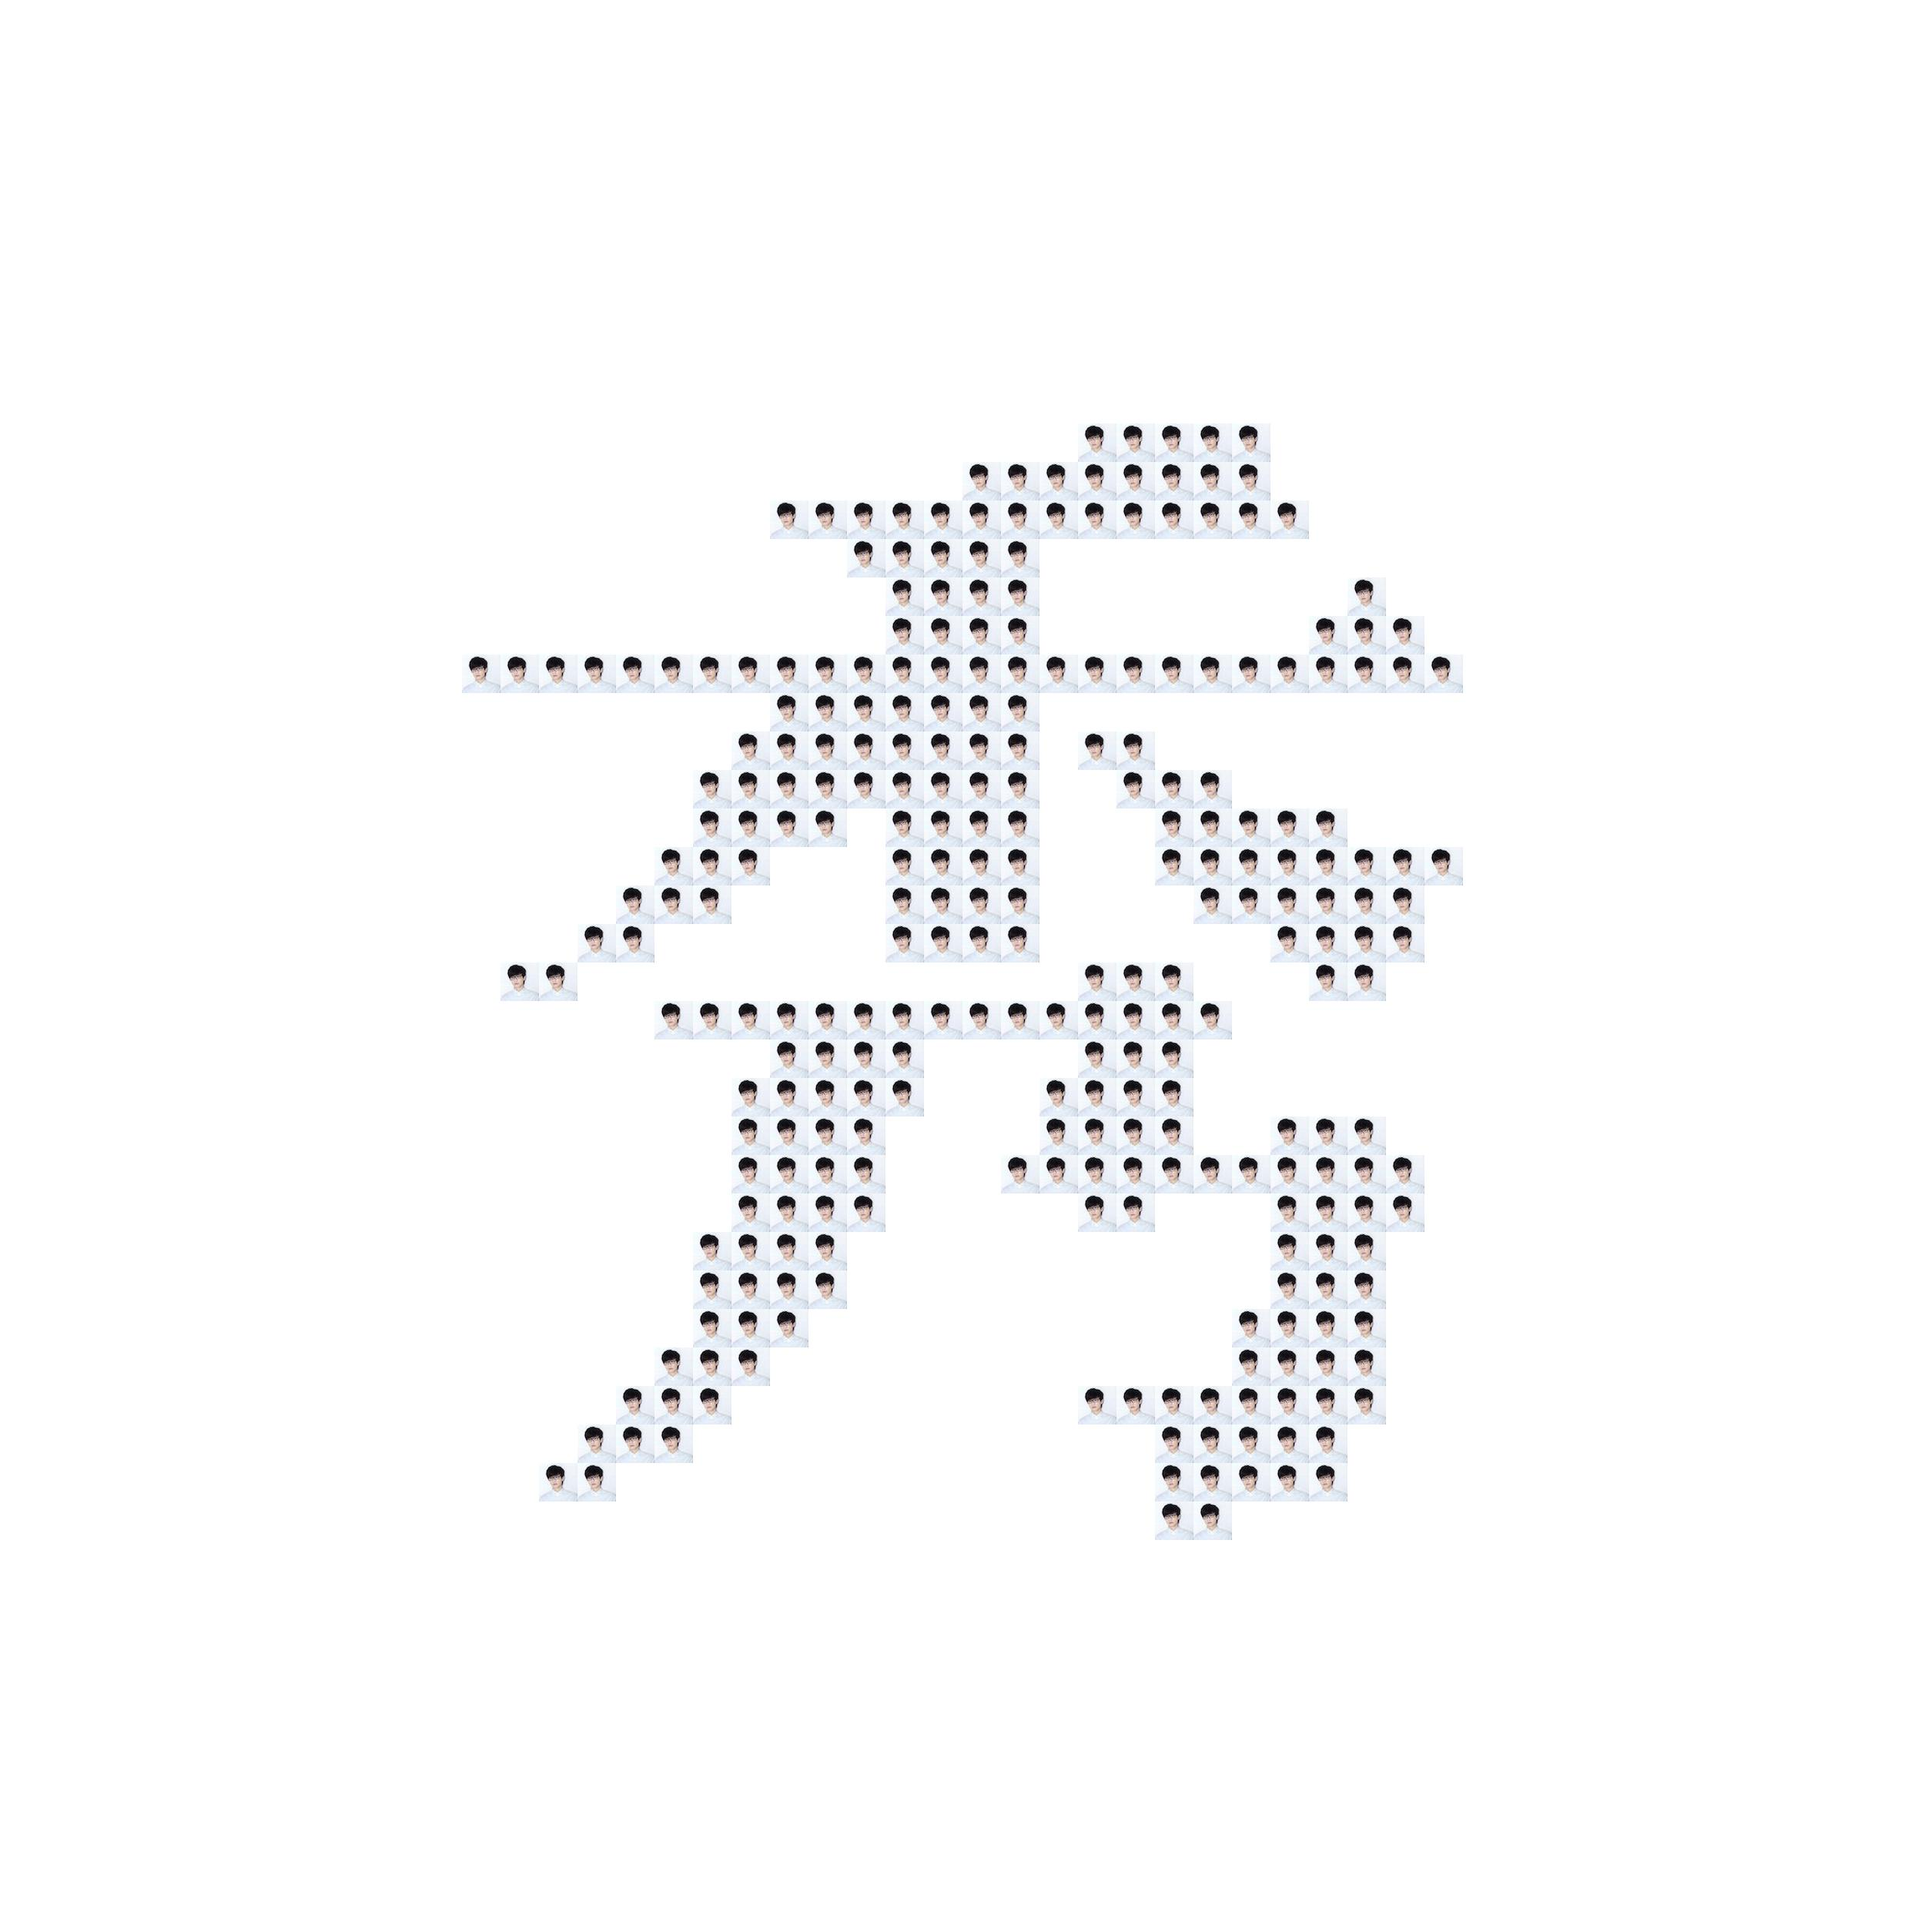
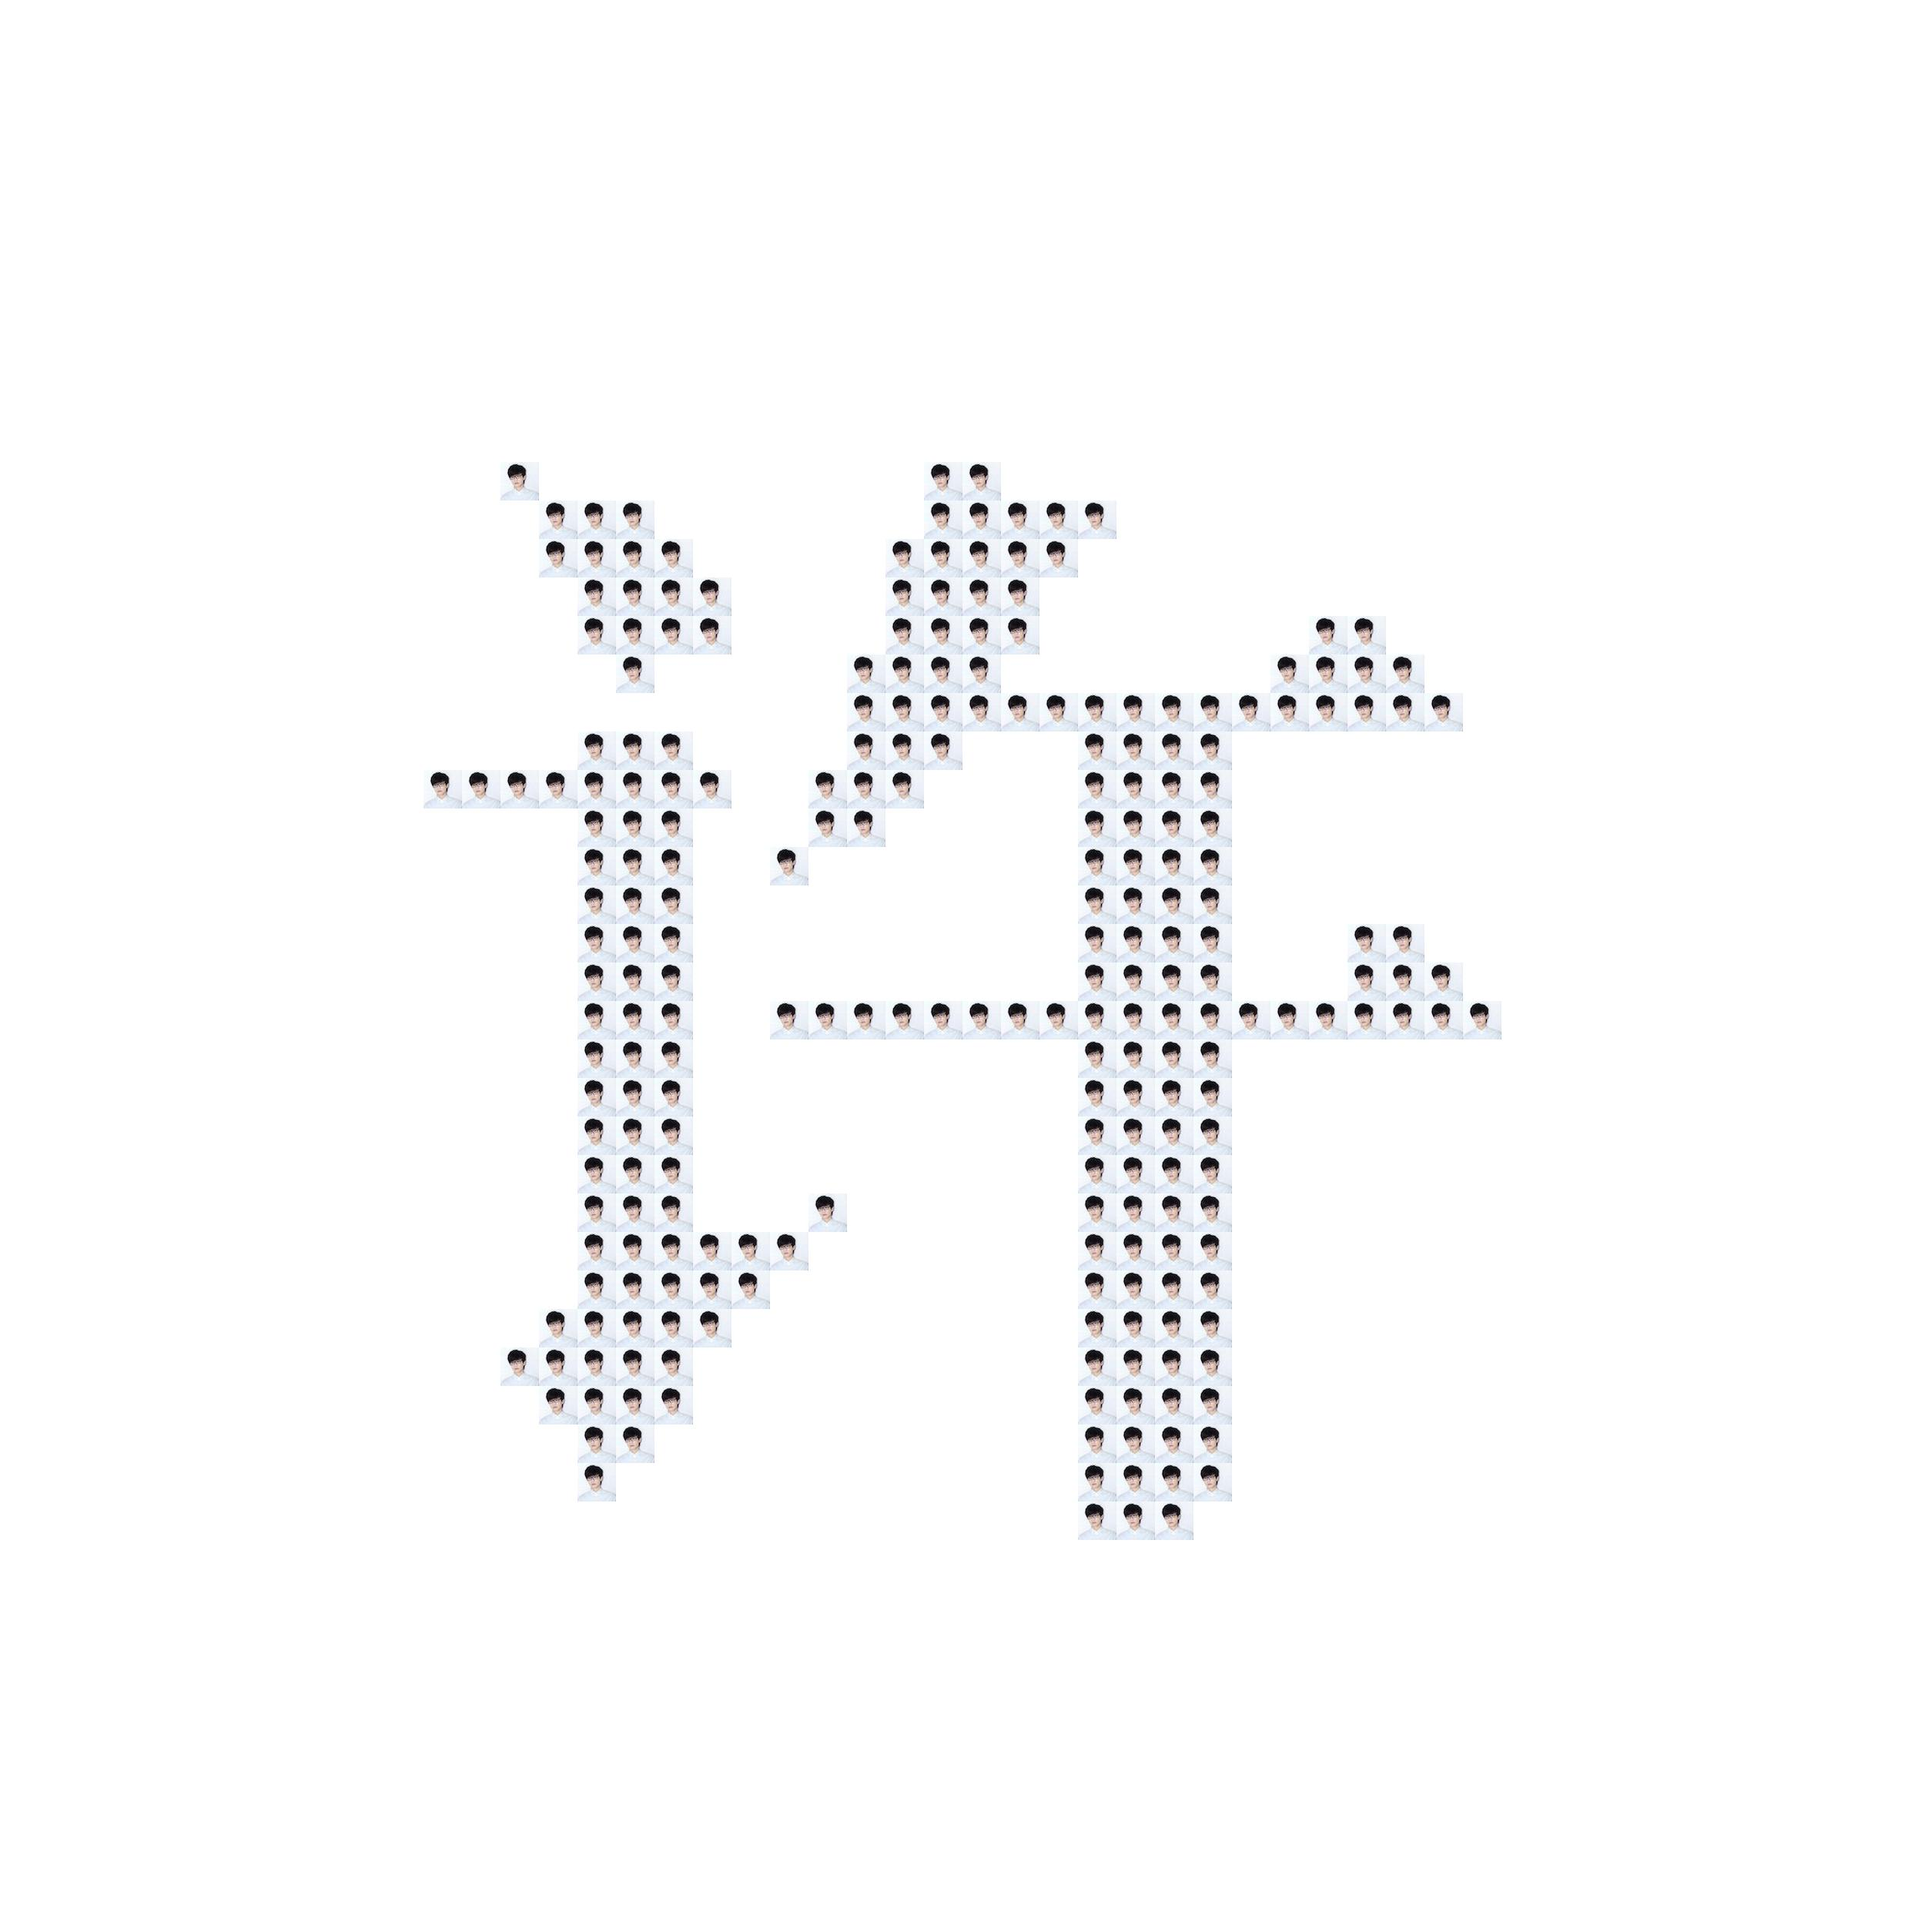
miniPic

diff --git a/start.py b/start.py
@@ -23,8 +23,9 @@ time_interval = 3
 # 图片的每个像素由原图片组成
 # isColorful:是否彩色
 # degree:彩色程度(1-5)
+# isMiniPic:是否按位置生成所有的小图
 # TODO: 可以考虑不裁切小图
-def picFather(pic,savePath,hidePic = None,isColorful = False,degree = 3):
+def picFather(pic,savePath,hidePic = None,isColorful = False,degree = 3,isNeedMiniPic = False):
 	if degree < 1 or degree > 5:
 		print 'degree取值范围为1-5'
 		return
@@ -46,9 +47,14 @@ def picFather(pic,savePath,hidePic = None,isColorful = False,degree = 3):
 		hidePx = hideIm.load()
 		hideW = random.randint(0,width-1)
 		hideH = random.randint(0,height-1)
+	if isNeedMiniPic:
+		saveFoldPath = savePath[:savePath.rindex('.')]+'/'
+		os.system('mkdir {}'.format(saveFoldPath))
 	for i in range(height):
 		for j in range(width):
 			gray = image2char.get_gray(*px[j,i])
+			if isNeedMiniPic:
+				miniImg = Image.new('RGB',(width,height))
 			for m in range(height):
 				for n in range(width):
 					if isColorful:
@@ -68,7 +74,11 @@ def picFather(pic,savePath,hidePic = None,isColorful = False,degree = 3):
 						b = b*point
 						g = g*point
 						r = r*point
+					if isNeedMiniPic:
+						miniImg.putpixel((n,m),(int(b),int(g),int(r)))
 					img.putpixel((j*width+n,i*height+m),(int(b),int(g),int(r)))
+			if isNeedMiniPic:
+				miniImg.save('{}{}_{}.jpg'.format(saveFoldPath, i+1, j+1))
 	img.save(savePath)
 
 # 用一张图片写字
@@ -210,8 +220,8 @@ if __name__ == '__main__':
 	# 图片颜色反转
 	# reversePic("source/source1.jpg","output/output6.jpg")
 	# 组成一张由小图构成的大图（像素长宽乘积不大于3000）
-	# picFather("source/source4.jpg","output/output12.jpg",isColorful=False,degree=1,hidePic="source/source3.jpg")
+	picFather("source/source4.jpg","output/output15.jpg",isColorful=True,degree=1,isNeedMiniPic=True)
 	# 两张图片融合
 	# mergePic("source/source3.jpg","source/source4.jpg","output/output15.jpg",degree=3,isColorful=True,isLtr=False)
 	# mergeVideo("source1.mp4","source2.mp4")
-	picWord("source/source4.jpg","output/output13.jpg",u"秀")
+	# picWord("source/source4.jpg","output/output14.jpg",u"嵩")
